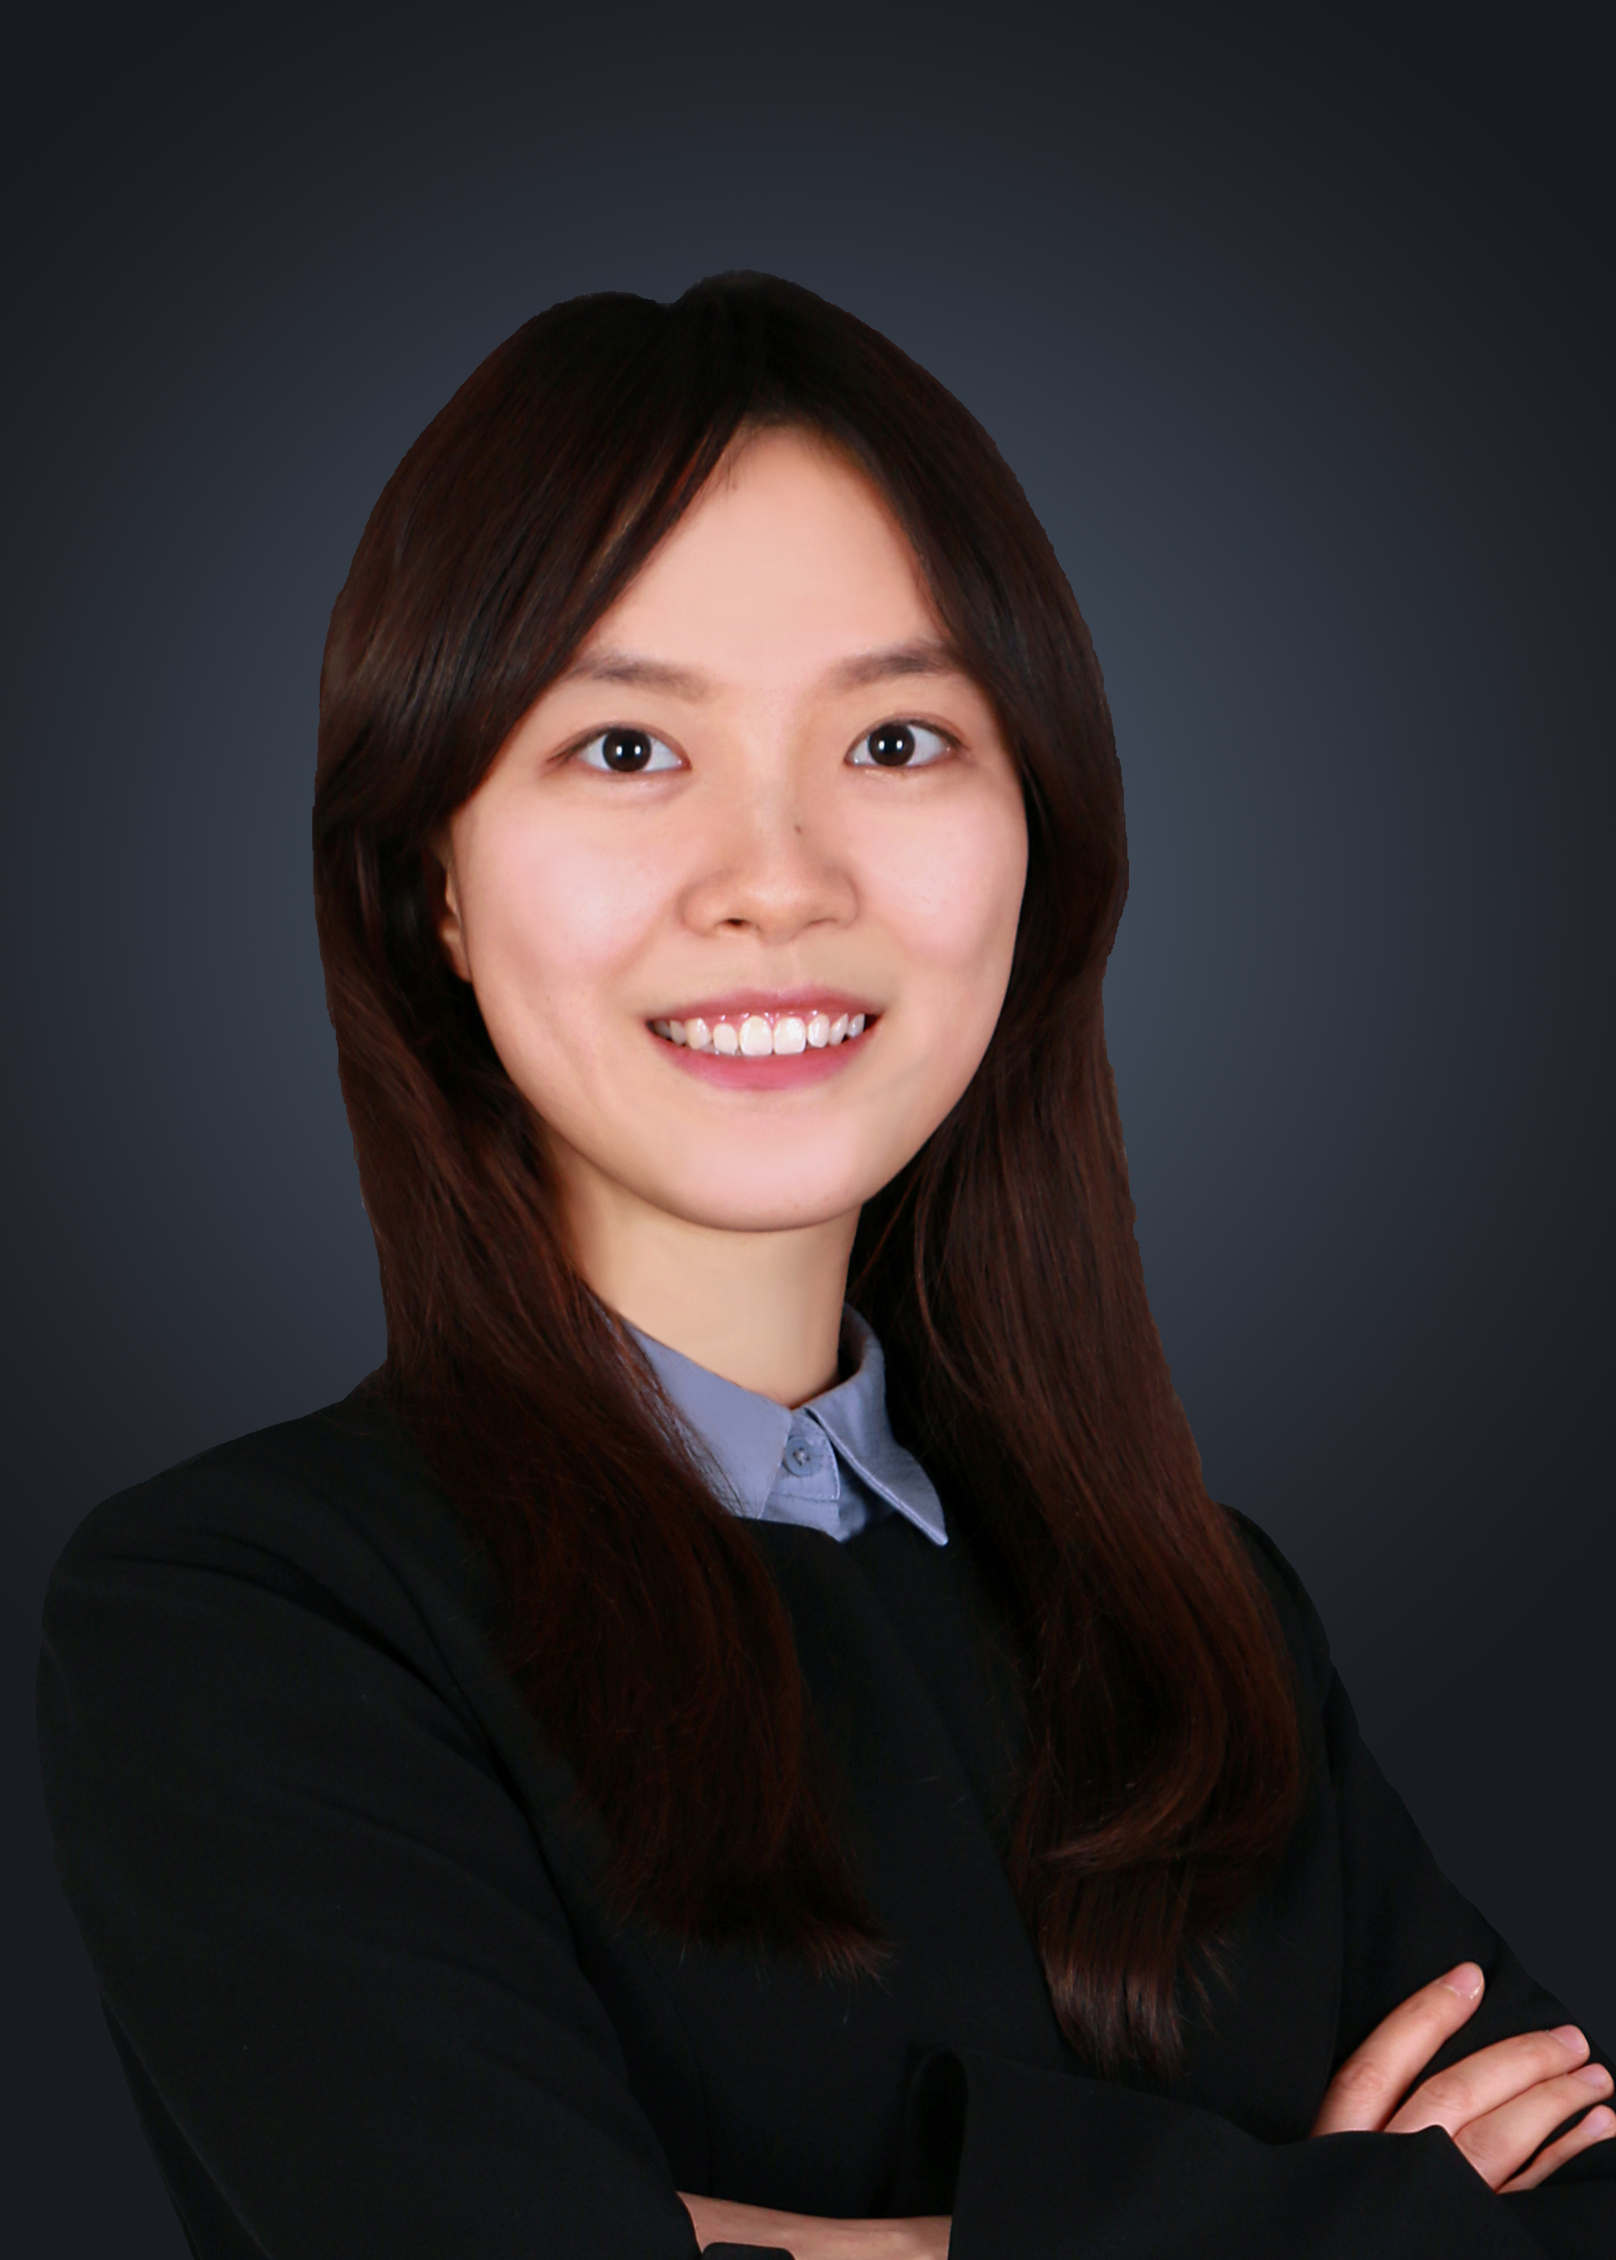
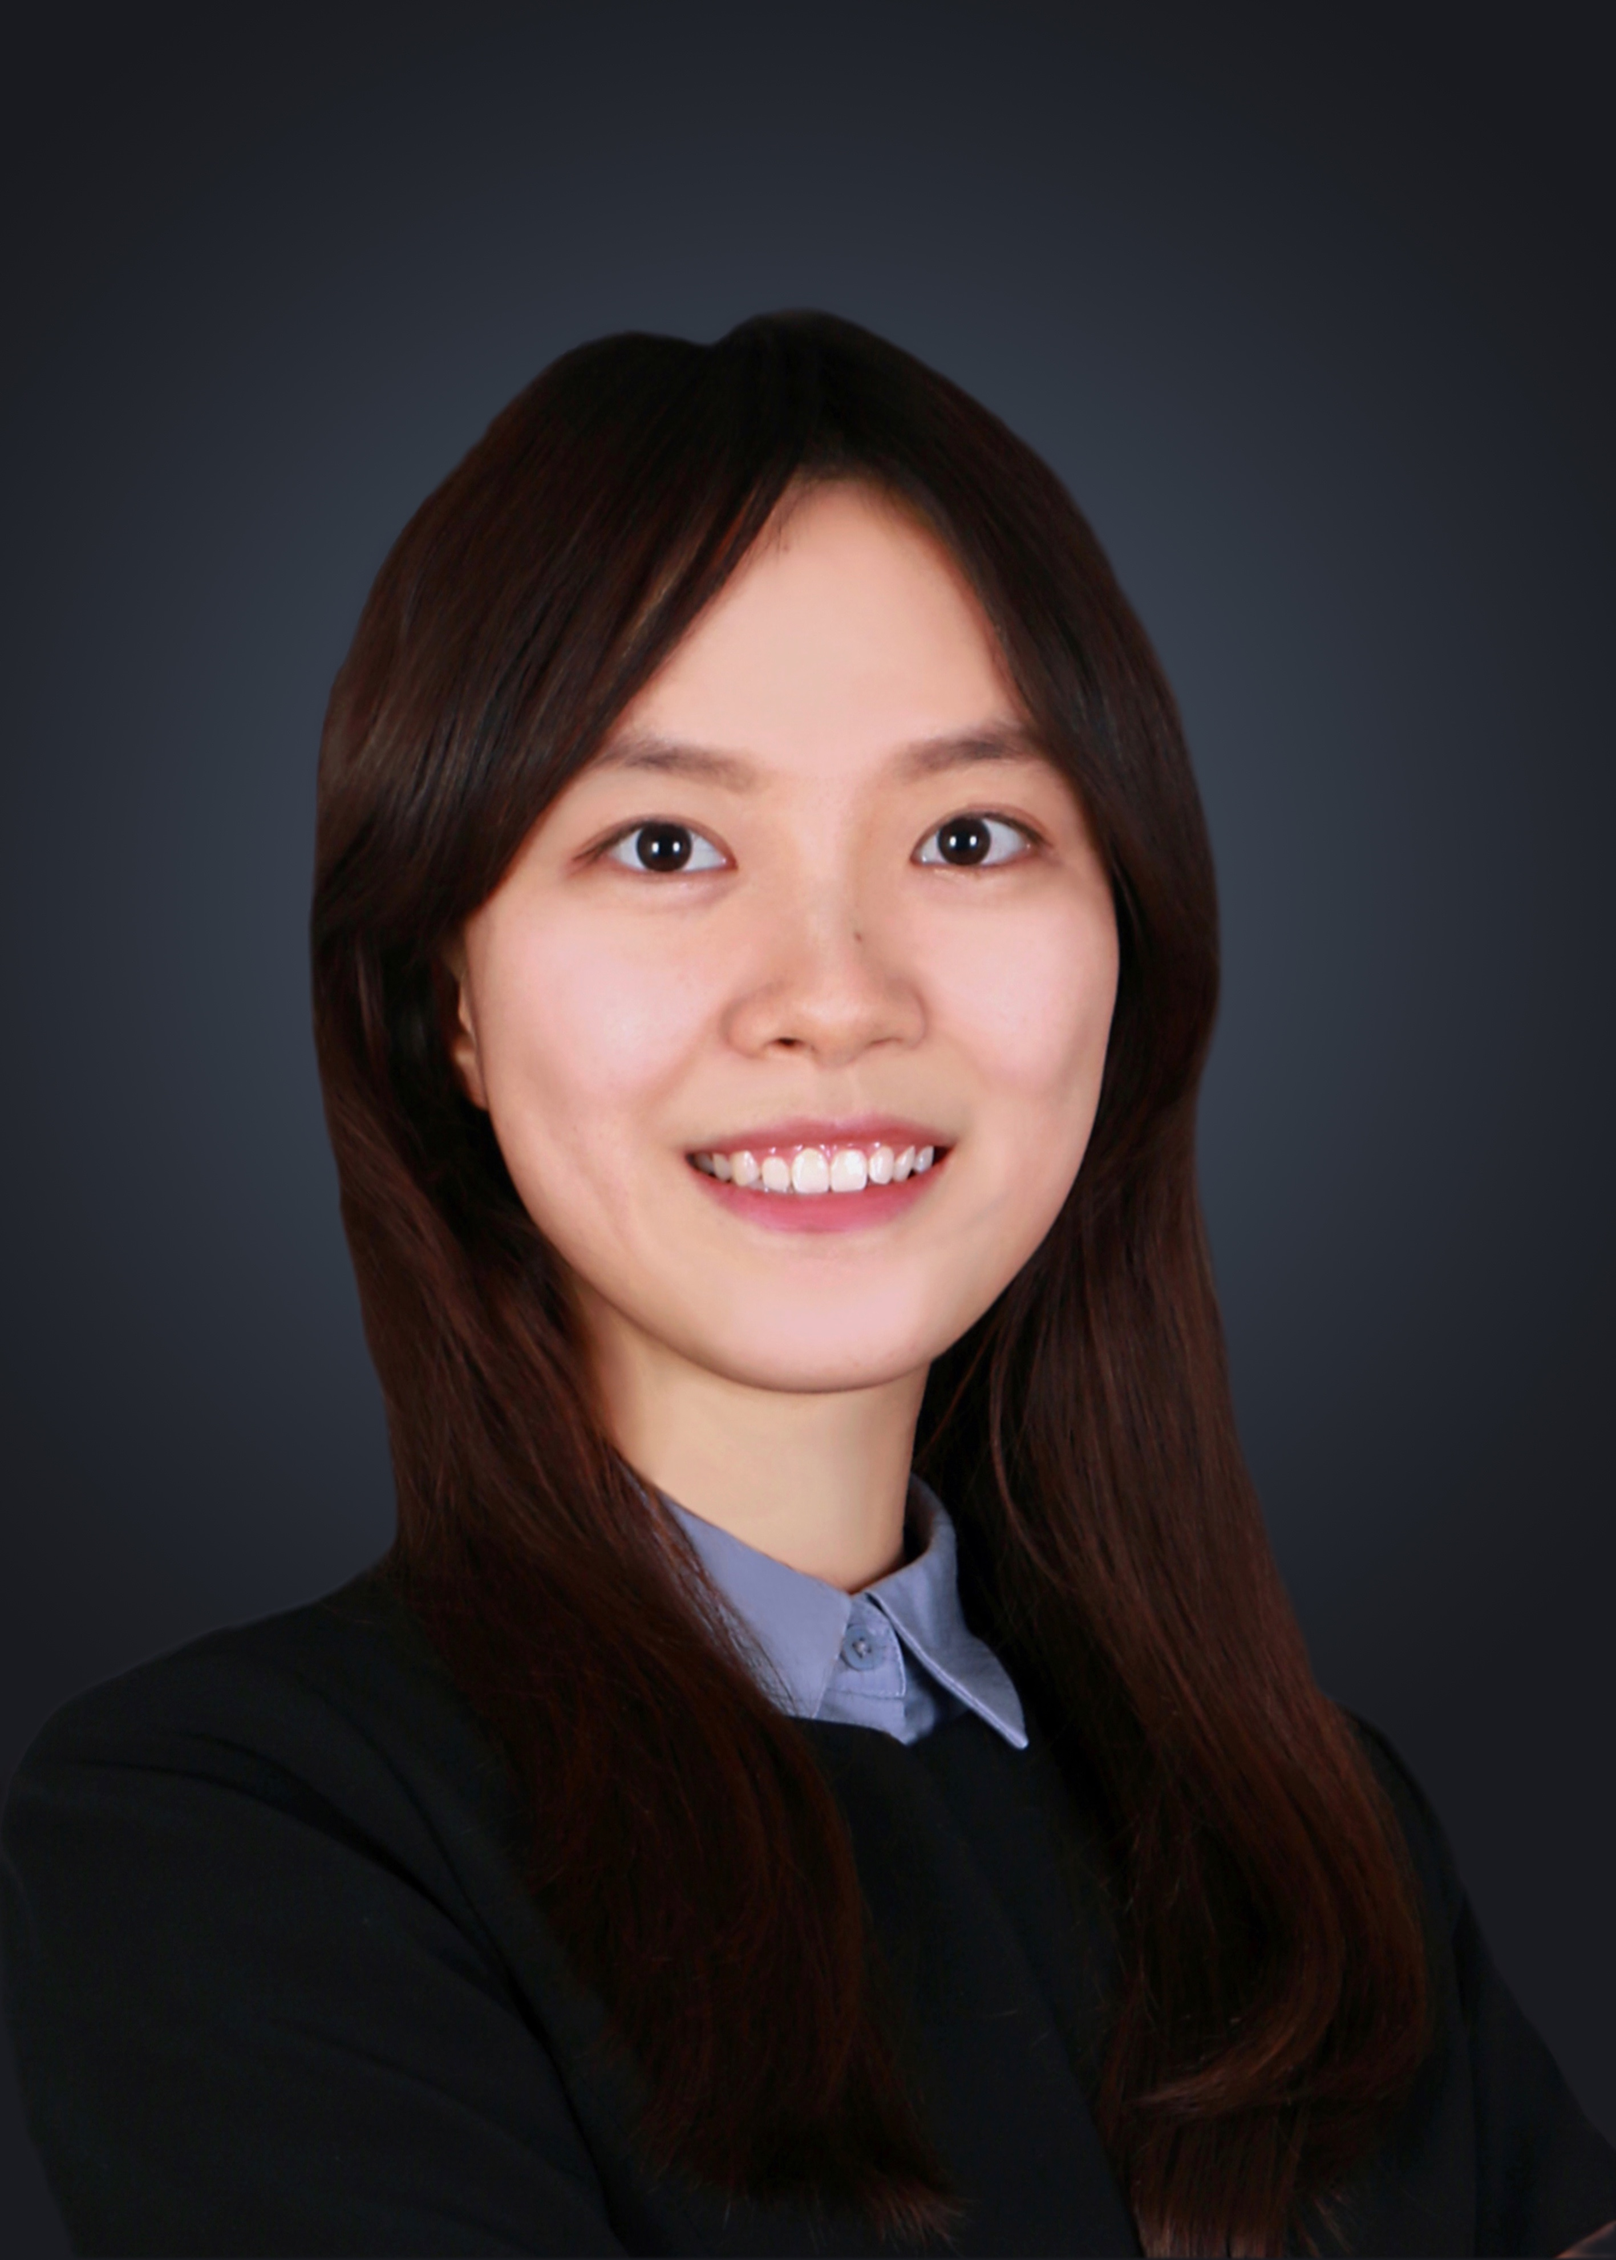
add undergraduate programs

diff --git a/pages/programs/undergraduate.js b/pages/programs/undergraduate.js
@@ -1,0 +1,59 @@
+// @mui
+import { styled } from '@mui/material/styles';
+// config
+import { HEADER_MOBILE_HEIGHT, HEADER_DESKTOP_HEIGHT } from '../../src/config';
+// _data
+import { _testimonials, _members, _brandsColor } from '../../_data/mock';
+// layouts
+import Layout from '../../src/layouts';
+// components
+import { Page } from '../../src/components';
+// sections
+import { TeamMarketingAbout } from '../../src/sections/team';
+import { NewsletterMarketing, NewsletterTravel } from '../../src/sections/newsletter';
+import { OurClientsElearning, OurClientsMarketingAbout } from '../../src/sections/our-clients';
+import {
+  ProgramCard
+} from '../../src/sections/@marketing';
+import {
+    FINAL_YEAR_PROGRAM,
+    INTELLIGENT_SYSTEM_PROGRAM,
+  ROBOMASTER_PROGRAM,
+  SRT_PROGRAM,
+  SUMMER_CAMP,
+  SUMMER_CAMP_ENTRY, SUMMER_CAMP_INTRO, SUMMER_CAMP_PIC_URL, VISITING_PROGRAM, VISITING_PROGRAM_ENTRY, VISITING_PROGRAM_INTRO, VISITING_PROGRAM_PIC_URL, WINTER_CAMP, WINTER_CAMP_ENTRY, WINTER_CAMP_INTRO, WINTER_CAMP_PIC_URL
+} from '../../_data/config';
+
+// ----------------------------------------------------------------------
+
+const RootStyle = styled('div')(({ theme }) => ({
+  paddingTop: HEADER_MOBILE_HEIGHT,
+  [theme.breakpoints.up('md')]: {
+    paddingTop: HEADER_DESKTOP_HEIGHT,
+  },
+}));
+
+// ----------------------------------------------------------------------
+
+export default function MarketingAboutUsPage() {
+  return (
+    <Page title="Undergraduate Enrichment">
+      <RootStyle>
+        <a id='intelligent-system' />
+        <ProgramCard program={INTELLIGENT_SYSTEM_PROGRAM}/>
+        <a id='robomaster' />
+        <ProgramCard program={ROBOMASTER_PROGRAM}/>
+        <a id='srt' />
+        <ProgramCard program={SRT_PROGRAM}/>
+        <a id='final-year-project' />
+        <ProgramCard program={FINAL_YEAR_PROGRAM}/>
+      </RootStyle>
+    </Page>
+  );
+}
+
+// ----------------------------------------------------------------------
+
+MarketingAboutUsPage.getLayout = function getLayout(page) {
+  return <Layout>{page}</Layout>;
+};

diff --git a/_data/config.js b/_data/config.js
@@ -182,3 +182,61 @@ export const VISITING_PROGRAM = {
     },
   ],
 }
+
+export const INTELLIGENT_SYSTEM_PROGRAM = {
+  title: "intelligent system program title",
+  intro: "intelligent system program intro",
+  imageURL: "https://zone-assets-api.vercel.app/assets/illustrations/illustration_teams.svg",
+  beforeEntry: "Sign up: ",
+  entry: [
+    {
+      id: 1,
+      description: 'intelligent system program',
+      href: Routes.comingsoon,
+    },
+  ],
+}
+
+export const ROBOMASTER_PROGRAM = {
+  title: "robomaster program title",
+  intro: "robomaster program intro",
+  imageURL: "https://zone-assets-api.vercel.app/assets/illustrations/illustration_teams.svg",
+  beforeEntry: "Sign up: ",
+  entry: [
+    {
+      id: 1,
+      description: 'robomaster program',
+      href: Routes.comingsoon,
+    },
+  ],
+  reverse: true
+}
+
+export const SRT_PROGRAM = {
+  title: "srt program title",
+  intro: "srt program intro",
+  imageURL: "https://zone-assets-api.vercel.app/assets/illustrations/illustration_teams.svg",
+  beforeEntry: "Sign up: ",
+  entry: [
+    {
+      id: 1,
+      description: 'srt program',
+      href: Routes.comingsoon,
+    },
+  ],
+}
+
+export const FINAL_YEAR_PROGRAM = {
+  title: "final year program title",
+  intro: "final year program intro",
+  imageURL: "https://zone-assets-api.vercel.app/assets/illustrations/illustration_teams.svg",
+  beforeEntry: "Sign up: ",
+  entry: [
+    {
+      id: 1,
+      description: 'final year program',
+      href: Routes.comingsoon,
+    },
+  ],
+  reverse: true
+}

diff --git a/src/layouts/nav/NavConfig.js b/src/layouts/nav/NavConfig.js
@@ -39,10 +39,10 @@ export const ProgramsPageLinks = [
     subheader: 'UnderGraduate Enrichment',
     // cover: MECHANIC_COVER_PIC,
     items: [
-      { title: 'Introduction to Intelligent Systems', path: Routes.comingsoon },
-      { title: 'RoboMater University AI Challenge', path: Routes.comingsoon },
-      { title: 'Student Research Training', path: Routes.comingsoon },
-      { title: 'Final Year Project', path: Routes.comingsoon },
+      { title: 'Introduction to Intelligent Systems', path: Routes.programs.undergraduate_is },
+      { title: 'RoboMater University AI Challenge', path: Routes.programs.undergraduate_robomaster },
+      { title: 'Student Research Training', path: Routes.programs.undergraduate_srt },
+      { title: 'Final Year Project', path: Routes.programs.undergraduate_fyp },
     ],
   },
   {

diff --git a/_data/robotics-config.js b/_data/robotics-config.js
@@ -44,6 +44,6 @@ export const MEMBERS = [
     { id: 2, name: "Huang, Pengfei", role: "Researcher", photo: "/member_photos/people_Huang_Pengfei.jpg" },
     { id: 3, name: "Jiang, Chengyu", role: "Researcher", photo: "/member_photos/people_Jiang_Chengyu.jpg" },
     { id: 4, name: "Li, Chuxuan", role: "Researcher", photo: "/member_photos/people_Li_Chuxuan.jpg" },
-    { id: 5, name: "Li, Jin", role: "Researcher", photo: "/member_photos/people_Li_Jin.jpg" },
-    { id: 6, name: "Zhang, Xinliang", role: "Engineer", photo: "/member_photos/people_Zhang_Xinliang.png" },
+    // { id: 5, name: "Li, Jin", role: "Researcher", photo: "/member_photos/people_Li_Jin.jpg" },
+    { id: 5, name: "Zhang, Xinliang", role: "Engineer", photo: "/member_photos/people_Zhang_Xinliang.jpg" },
 ]

diff --git a/_data/sun-config.js b/_data/sun-config.js
@@ -34,7 +34,7 @@ export const CATEGORIES = [
 
 export const MEMBERS = [
     { id: 1, name: "Shi, Yongliang", role: "Post Doc", photo: "/member_photos/people_Shi_Yongliang.jpeg" },
-    { id: 2, name: "Chen, Xiaoxue", role: "Phd Student", photo: "/member_photos/people_Chen_Xiaoxue.jpeg" },
+    { id: 2, name: "Chen, Xiaoxue", role: "Phd Student", photo: "/member_photos/people_Chen_Xiaoxue.jpg" },
     { id: 3, name: "Li, Pengfei", role: "Phd Student", photo: "/member_photos/people_Li_Pengfei.jpeg" },
-    { id: 4, name: "Tian, Beiwen", role: "Researcher", photo: "/member_photos/people_Tian_Beiwen.jpg" },
+    { id: 4, name: "Tian, Beiwen", role: "Researcher", photo: "" },
 ]

diff --git a/src/routes.js b/src/routes.js
@@ -64,6 +64,11 @@ const Routes = {
     visiting_summer_camp: '/programs/visiting#summer-camp',
     visiting_winter_camp: '/programs/visiting#winter-camp',
     visiting_program: '/programs/visiting#program',
+    undergraduate: '/programs/undergraduate',
+    undergraduate_is: '/programs/undergraduate#intelligent-system',
+    undergraduate_robomaster: '/programs/undergraduate#robomaster',
+    undergraduate_srt: '/programs/undergraduate#srt',
+    undergraduate_fyp: '/programs/undergraduate#final-year-project',
   },
   // Common
   loginCover: '/auth/login-cover',

diff --git a/pages/programs/visiting.js b/pages/programs/visiting.js
@@ -33,7 +33,7 @@ const RootStyle = styled('div')(({ theme }) => ({
 
 export default function MarketingAboutUsPage() {
   return (
-    <Page title="About Us - Marketing">
+    <Page title="Visiting Program">
       <RootStyle>
         <a id='summer-camp' />
         <ProgramCard program={SUMMER_CAMP}/>
